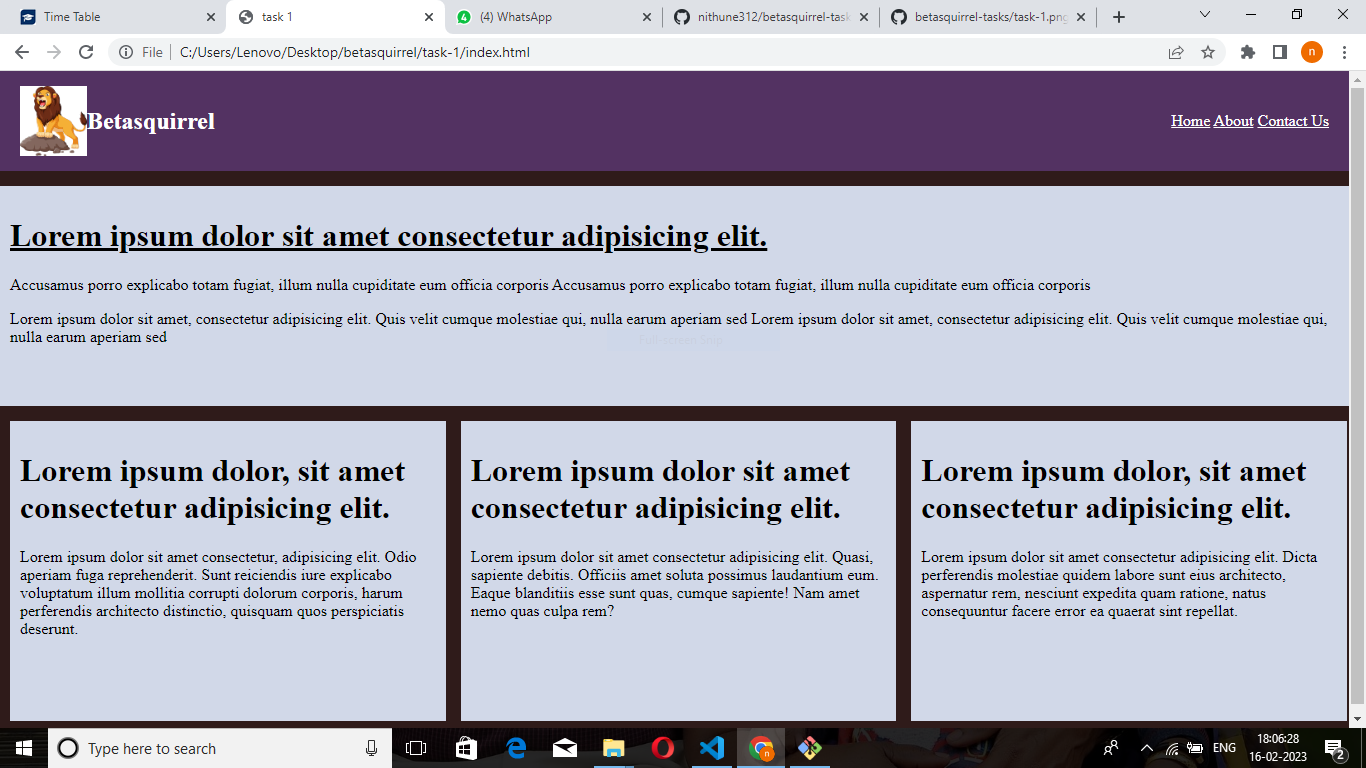
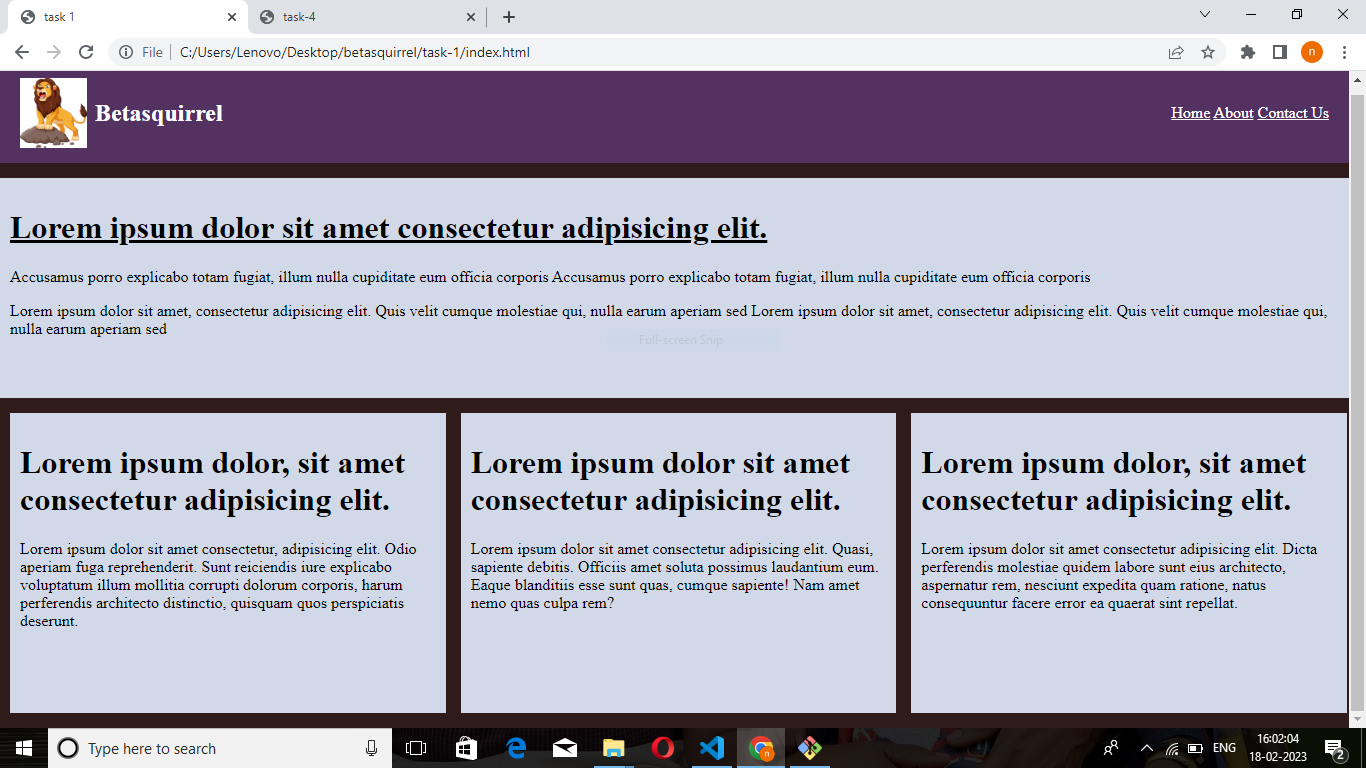
committing betasquirrel

diff --git a/task-4/css/style.css b/task-4/css/style.css
@@ -1,5 +1,5 @@
 body {
-  background-color: whitesmoke;
+  background-color: #ececec;
   margin: 0 auto;
 }
 #navbar {
@@ -8,7 +8,7 @@ body {
   display: flex;
   align-items: center;
   justify-content: space-between;
-  border-bottom: 1px solid whitesmoke;
+  border-bottom: 1px solid #ececec;
 }
 #logo-container {
   width: 300px;
@@ -43,7 +43,7 @@ body {
   float: left;
 }
 #container > h2 {
-  color: #555;
+  color: #303030;
   margin: 0 0 10px 176px;
   text-decoration: underline;
 }
@@ -52,13 +52,13 @@ body {
   margin-left: 10px;
 }
 .green-bg {
-  background-color: #06ce83;
+  background-color: #0ace82;
 }
 .purple-bg {
-  background-color: #a25aff;
+  background-color: #a259ff;
 }
 .red-bg {
-  background-color: #f24e1d;
+  background-color: #f34e1e;
 }
 .cyan-bg {
   background-color: #1cbcfd;
@@ -137,7 +137,7 @@ body {
   border-radius: 50%;
   display: flex;
   justify-content: center;
-  background-color: #ff7262;
+  background-color: #ff7261;
   padding: 15px;
 }
 .inner-four {
@@ -162,34 +162,38 @@ body {
 }
 .one {
   left: 30px;
-  height: calc(100% - 30px);
+  height: calc(110% - 30px);
+  background-color: #0ace82;
 }
 .two {
-  left: 70px;
-  height: calc(100% - 10px);
+  left: 60px;
+  height: calc(85% - 10px);
 }
 .three {
-  left: 109px;
-  height: calc(100% - 70px);
+  left: 90px;
+  height: calc(117% - 70px);
 }
 .four {
-  left: 173px;
-  height: 76px;
+  left: 80px;
+  height: 166px;
   margin-left: 47px;
+  background-color: cyan;
 }
 .five {
-  left: 185px;
-  height: calc(100% - 10px);
+  left: 160px;
+  height: calc(85% - 10px);
+  background-color: #5e5c5d;
 }
 .six {
-  left: 149px;
-  height: calc(100% - 50px);
+  left: 190px;
+  height: calc(56% - 50px);
+  background-color: #ff7261;
 }
 .line {
   left: 30px;
   width: 91%;
   height: 5px;
-  background-color: #625b5b;
+  background-color: #5e5c5d;
   position: absolute;
 }
 .sidebar nav {
@@ -207,6 +211,6 @@ body {
   padding-top: 0;
 }
 .sidebar nav a.active {
-  color: #06ce83;
+  color: #0ace82;
   text-decoration: none;
 }

diff --git a/task-4/index.html b/task-4/index.html
@@ -10,7 +10,7 @@
   <body>
     <div id="navbar">
       <div id="logo-container">
-        <img src="image/index.png" alt="logo" />
+        <img src="image/figma.svg" alt="logo" />
         <h2>Figma</h2>
       </div>
       <div id="profile-container">
@@ -61,7 +61,7 @@
           </div>
           <div class="circle cyan-bg">
             <div class="inner-two">
-              <h2>100/200</h2>
+              <h2>10/200</h2>
             </div>
           </div>
           <div class="circle red-bg">
@@ -73,8 +73,8 @@
           </div>
           <div class="chart">
             <div class="bar green-bg one"></div>
-            <div class="bar purple-bg two"></div>
-            <div class="bar red-bg three"></div>
+            <div class="bar red-bg two"></div>
+            <div class="bar purple-bg three"></div>
             <div class="bar cyan-bg four"></div>
             <div class="bar green-bg five"></div>
             <div class="bar red-bg six"></div>

diff --git a/task-2/css/style.css b/task-2/css/style.css
@@ -59,6 +59,7 @@ div {
 }
 .lift img {
   height: 40px;
+  margin-right: 8px;
 }
 .left h2 {
   display: inline;
@@ -67,7 +68,7 @@ div {
 .right a {
   color: white;
 }
-@media screen and (max-width: 500px) {
+@media screen and (max-width: 750px) {
   #main-container {
     display: inline-block;
     height: 500px;
@@ -93,8 +94,6 @@ div {
     height: 100px;
   }
   .right {
-    float: left;
-    margin-top: 10%;
-    margin-left: 0px;
+    display: none;
   }
 }

diff --git a/task-1/css/style.css b/task-1/css/style.css
@@ -45,6 +45,7 @@ h2 {
 }
 .left img {
   height: 70px;
+  margin-right: 8px;
 }
 .left h2 {
   display: inline;
